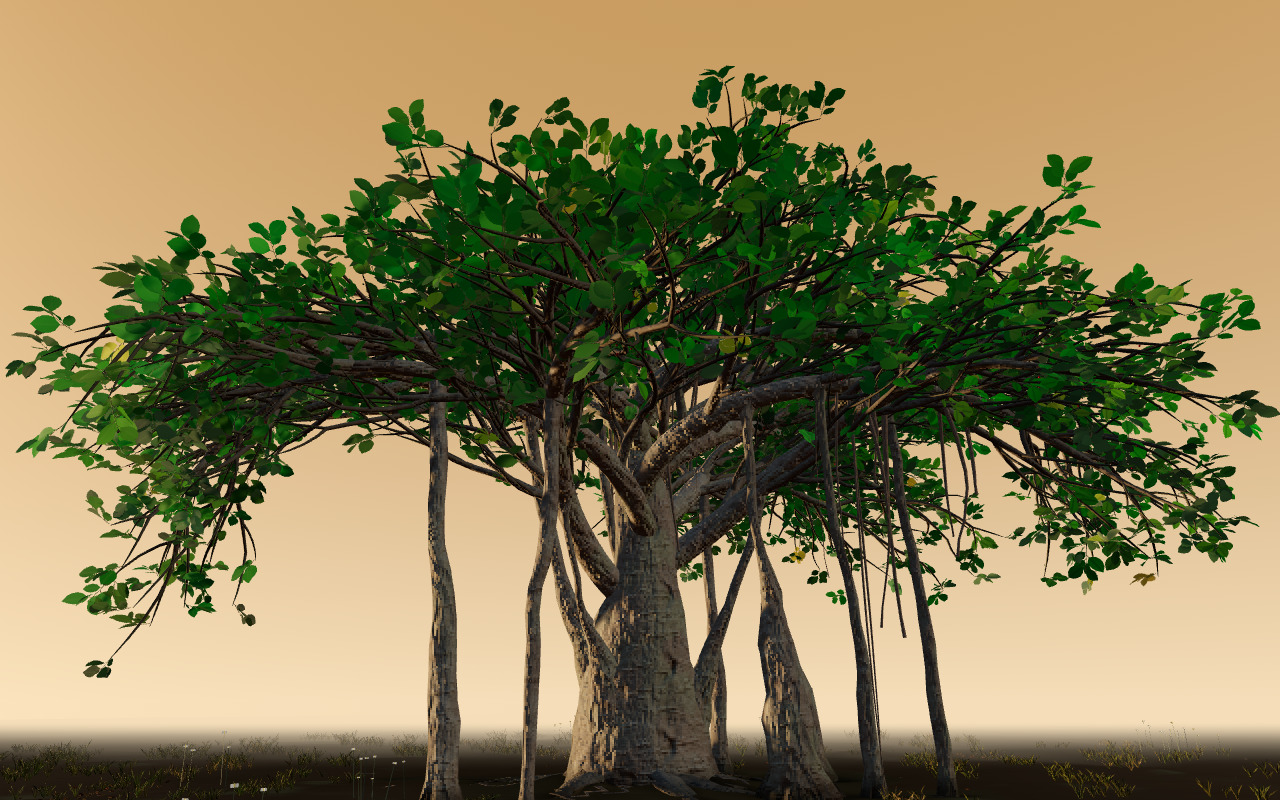
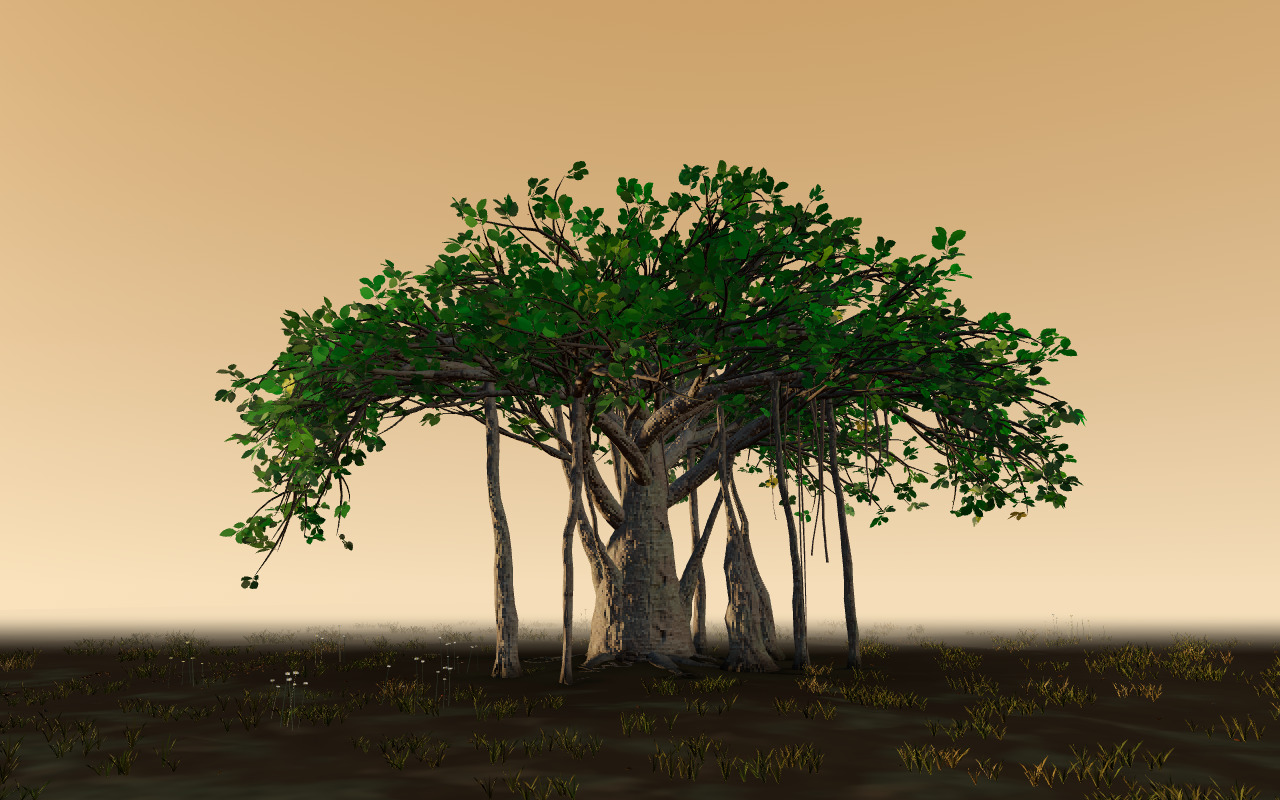
study: the hero is close again, the gallery shows its ground, the heat map fills its frame

diff --git a/README.md b/README.md
@@ -12,7 +12,7 @@ keeps the tree's identity reproducible at the same certified settings.
 
 ![Seed 863, golden-hour scene, earth-moss ground, low-eye opening view with a 40-degree azimuth sweep](docs/images/banyan-863-orbit.gif)
 
-![Seed 863, golden-hour scene, earth-moss ground, low-eye close view](docs/images/hero-banyan-closeup.jpg)
+![Seed 863, golden-hour scene, earth-moss ground, close view, eye 1.2 inside the tree reach, FOV 46, setView(0.62, -0.5667292175235064, 6.519202405202649, 0, 4.7, 0)](docs/images/hero-banyan-closeup.jpg)
 
 The current-view images are rendered from the shipped file at their stated seeds;
 the [ten Gold previews](gold/) are its witness.
@@ -37,7 +37,7 @@ grows for you, in the same ground.
 
 | | |
 |---|---|
-| ![Seed 1653, golden-hour scene, wild-meadow ground, low-eye opening view](docs/images/banyan-1653-wild-meadow.jpg) | ![Seed 153, golden-hour scene, quiet-garden ground, low-eye opening view](docs/images/banyan-153-quiet-garden.jpg) |
+| ![Seed 1653, golden-hour scene, wild-meadow ground, gallery view, eye 1.6, target at 55% of tree height, FOV 46, setView(0.62, -0.1869082789978265, 18.959922210121512, 0, 5.123169035697714, 0)](docs/images/banyan-1653-wild-meadow.jpg) | ![Seed 153, golden-hour scene, quiet-garden ground, gallery view, eye 1.6, target at 55% of tree height, FOV 46, setView(0.62, -0.19136596158542446, 20.05518397887384, 0, 5.414497966813612, 0)](docs/images/banyan-153-quiet-garden.jpg) |
 | `?seed=1653&ground=wild-meadow&scene=golden-hour` | `?seed=153&ground=quiet-garden&scene=golden-hour` |
 
 ## How it grows
@@ -81,12 +81,13 @@ the laptop and a loss on an iPhone 13, where the trunk covers fewer pixels than
 it has vertices at the pose the page opens on. Those fields are baked once
 at build time now, on the GPU, and stored with the mesh.
 
-![Seed 863, golden-hour scene, earth-moss ground, explicit setView(0.62, 0.04, 32, 0, 5, 0), amplified difference between 58a9cb5 and 8d2e043](docs/images/banyan-863-heat.jpg)
+![Seed 863, golden-hour scene, earth-moss ground, explicit setView(0.62, 0.04, 32, 0, 5, 0), amplified difference between 58a9cb5 and 8d2e043, cropped to the tree at 8:5 aspect](docs/images/banyan-863-heat.jpg)
 
 Frame-budget comparison: [58a9cb5](https://github.com/satyasairay/banyan/commit/58a9cb584748f49017bbc1f3ae08ea511d33fb92)
 to [8d2e043](https://github.com/satyasairay/banyan/commit/8d2e043828e9b66c6ba2d1f54fe834c1bf95c02a),
 `balanced`, `setView(0.62, 0.04, 32, 0, 5, 0)` in both builds.
 The largest channel difference is amplified into RGB by 64×, 16× and 4×.
+The heat map is cropped to the tree at 8:5 aspect and resized to 1280×800.
 
 The heat map amplifies pixel differences between two builds at the same view.
 The trees in the gold catalogue reproduce their geometry checksums on every v5 build, and shading changes are held to what a
